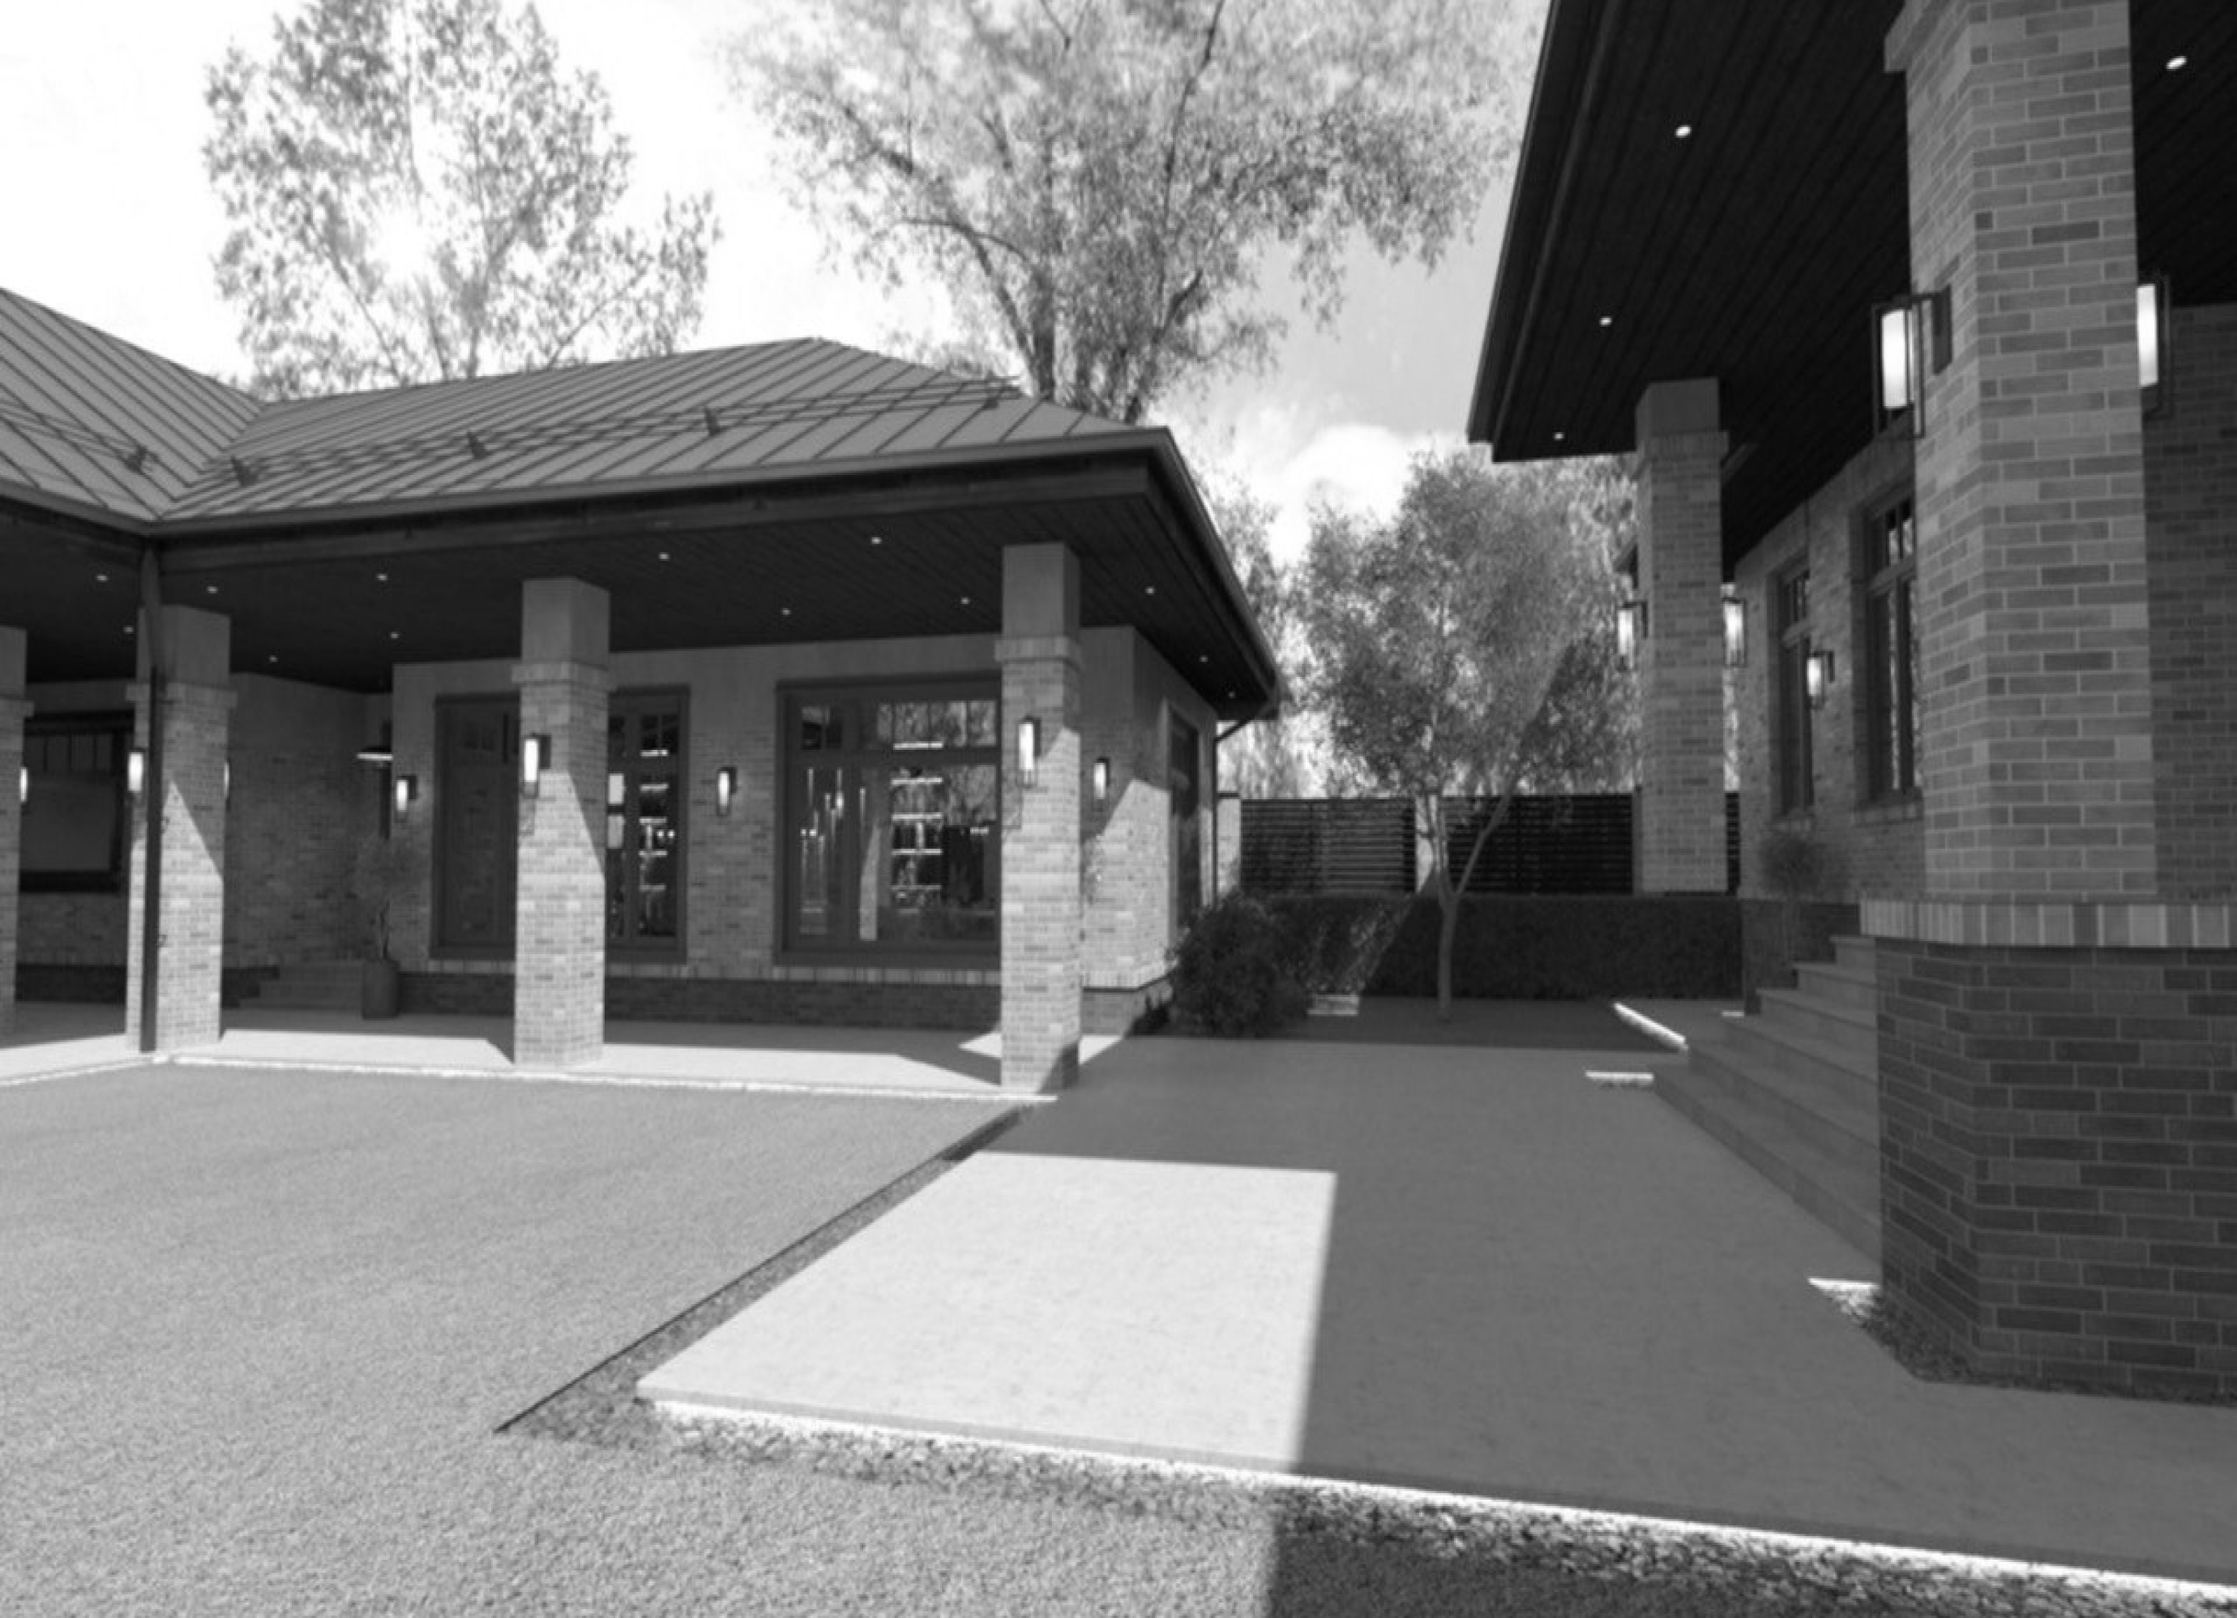
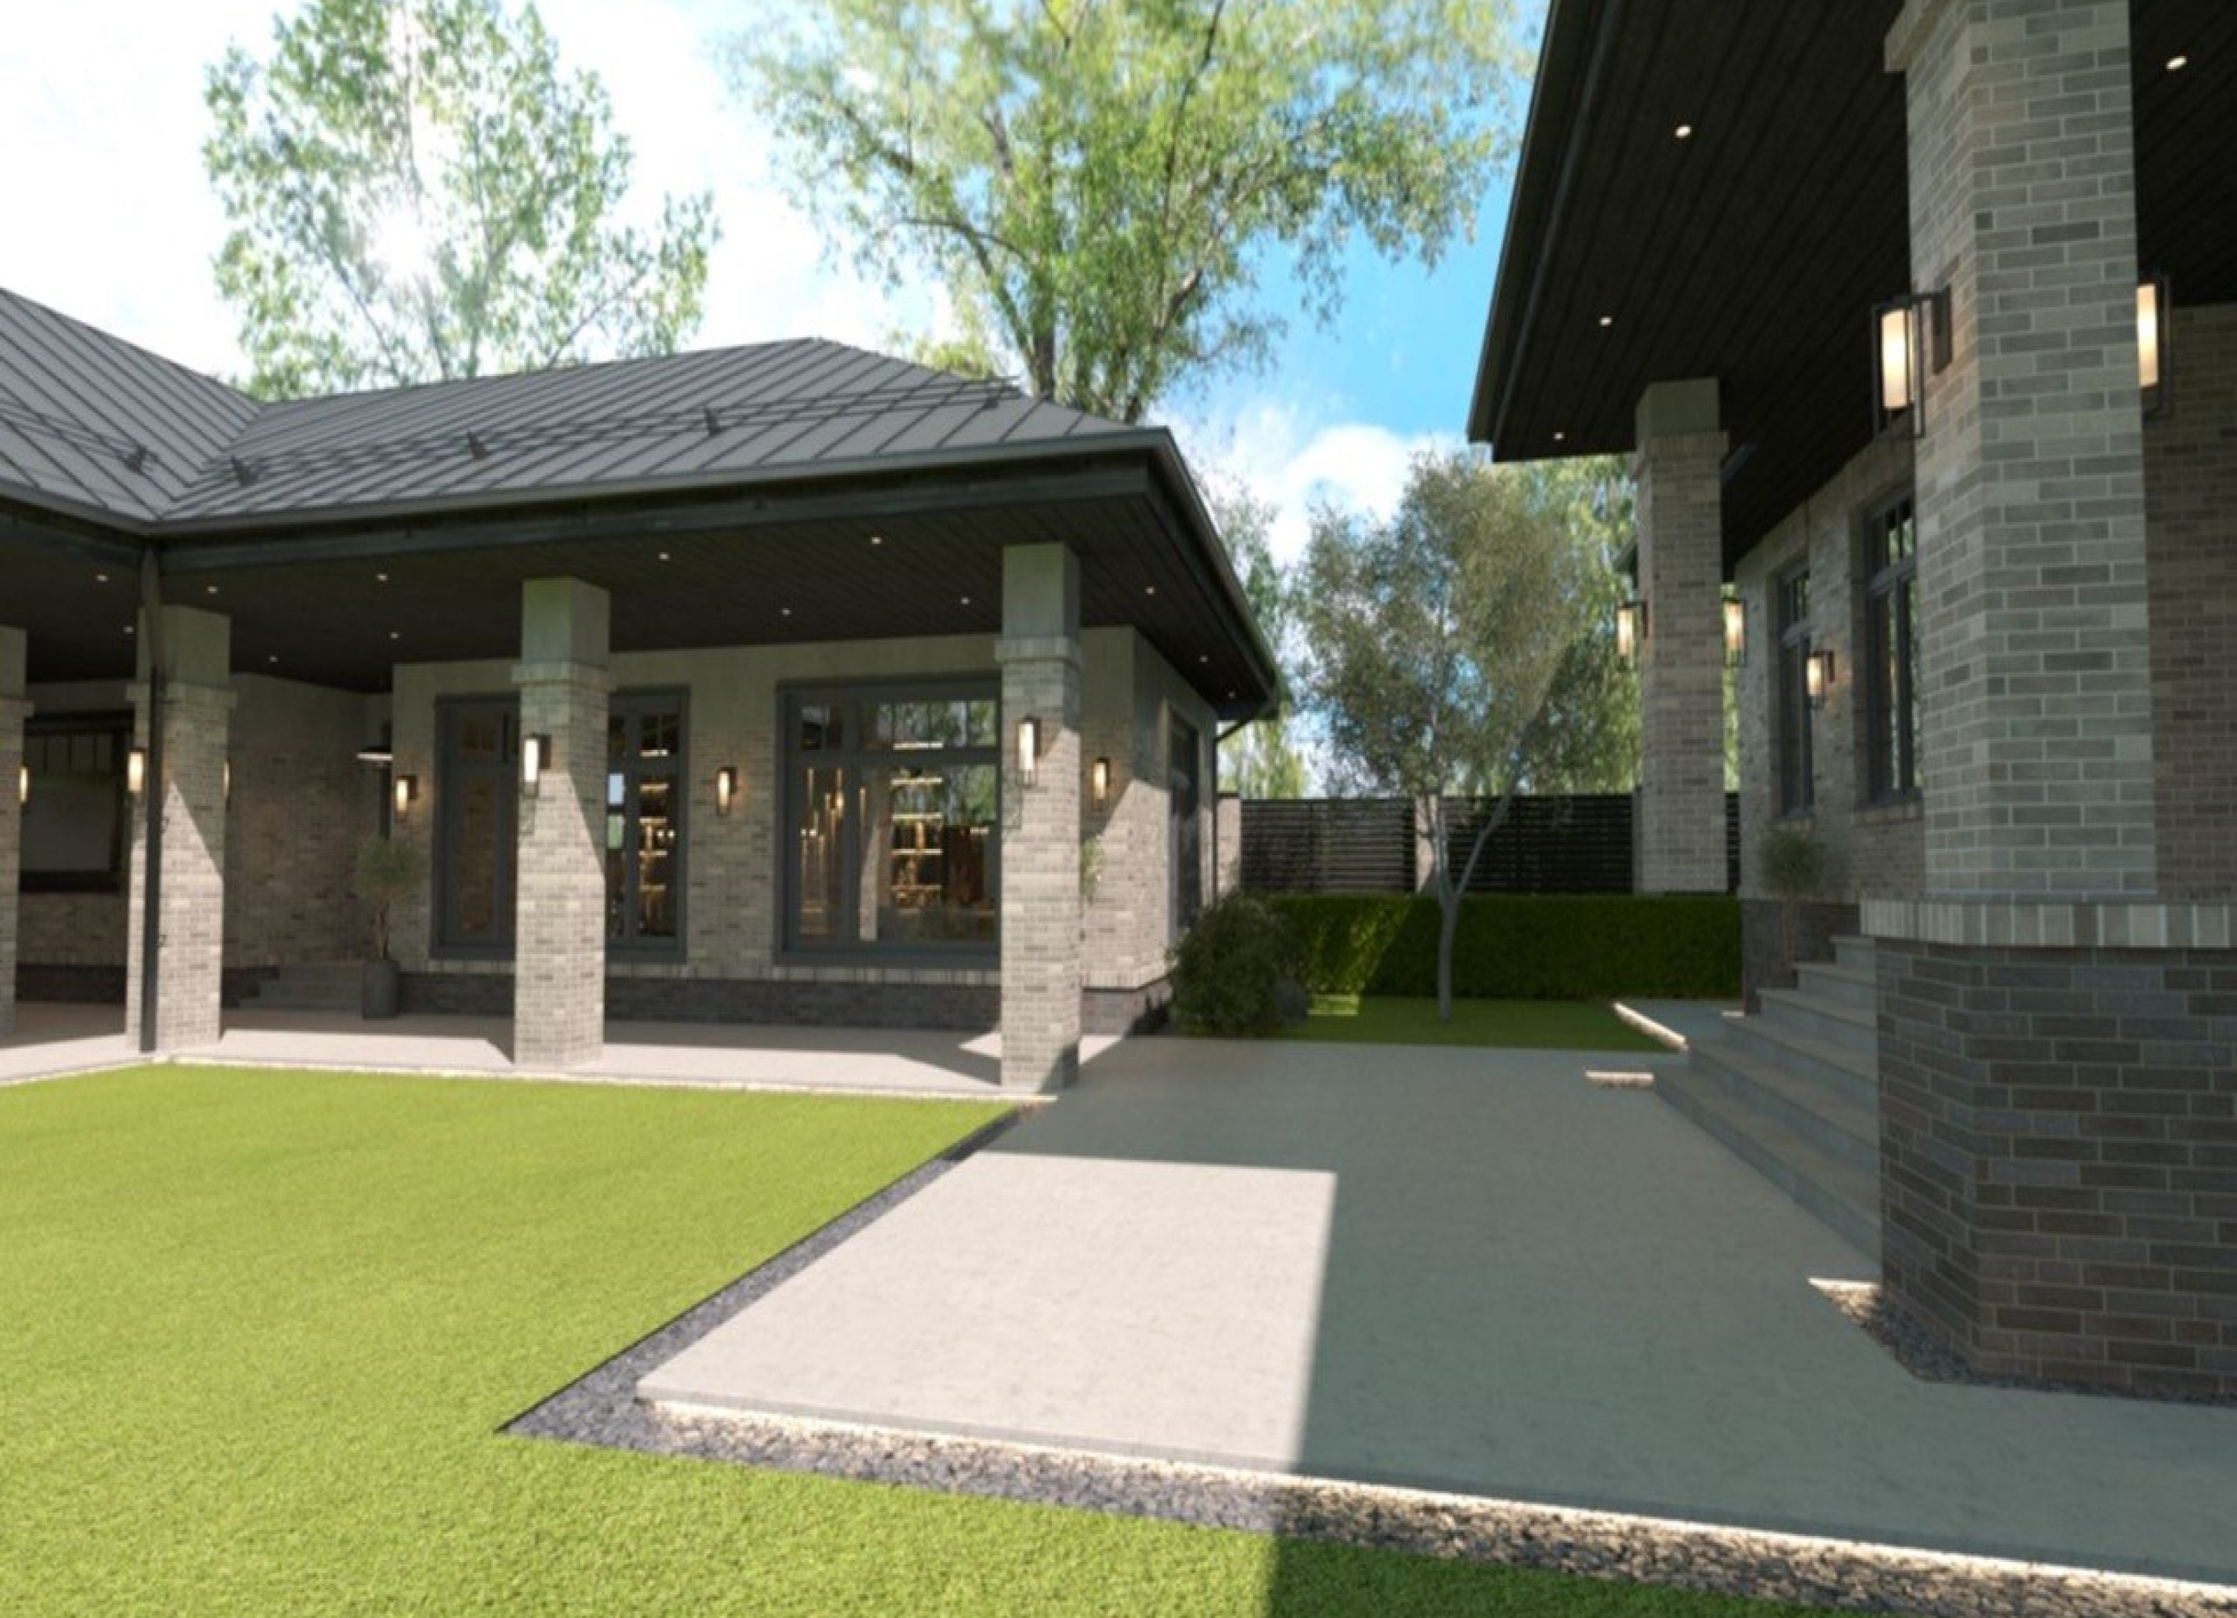
nina_2.0

diff --git a/ninasav/index.html b/ninasav/index.html
@@ -13,7 +13,7 @@
 
     <header class="header">
         <div class="logo">
-            Nina Sav
+            Nina Savlaeva
         </div>
 
         <nav class="main-nav">
@@ -24,21 +24,23 @@
 
         <div class="lang-switch">
             <a href="#">Ru</a>
-            <a href="#" class="active">En</a>
         </div>
     </header>
 
     <main class="hero">
         <div class="gallery-wrapper">
-            <img src="./images_nina/vld.webp" alt="Vladikavkaz Residence" class="gallery-image active">
+            <!-- Убрали active отсюда! -->
+            <img src="./images_nina/gallery-1-1.webp" alt="Slide 1" class="gallery-image">
+            <img src="./images_nina/gallery-2.webp" alt="Slide 2" class="gallery-image">
+            <img src="./images_nina/gallery-3.webp" alt="Slide 3" class="gallery-image">
+            <img src="./images_nina/gallery-4.webp" alt="Slide 4" class="gallery-image">
         </div>
 
-        <div class="hero-item bottom-left">
-            Vladikavkaz <br> Residence — 1,000 m²
+        <div class="hero-item bottom-left" id="hero-text">
+            Vladikavkaz <br>Residence — 1,000 m²
         </div>
-
-
     </main>
+
     <div class="v-space M"></div>
     <section class="about-section">
         <p class="about-text">
@@ -60,41 +62,53 @@
         <div class="projects-stagger">
 
             <!-- 1 -->
-            <div class="project-card left">
+            <a href="#" class="project-card left">
                 <h3 class="project-title">Vladikavkaz <br class="mob-br"> Residence — 1,000 m²</h3>
-                <img src="./images_nina/gallery-1.webp" alt="Vladikavkaz Residence" class="project-img">
-            </div>
+                <div class="img-mask">
+                    <img src="./images_nina/gallery-1.webp" alt="Vladikavkaz Residence" class="project-img">
+                </div>
+            </a>
 
             <!-- 2 -->
-            <div class="project-card right">
+            <a href="#" class="project-card right">
                 <h3 class="project-title">Digora <br class="mob-br"> Residence — 800 m²</h3>
-                <img src="./images_nina/gallery-2.webp" alt="Digora" class="project-img">
-            </div>
+                <div class="img-mask">
+                    <img src="./images_nina/gallery-2.webp" alt="Digora" class="project-img">
+                </div>
+            </a>
 
             <!-- 3 -->
-            <div class="project-card left">
+            <a href="#" class="project-card left">
                 <h3 class="project-title">«Brugge» <br class="mob-br"> Restaurant</h3>
-                <img src="./images_nina/gallery-3.webp" alt="Brugge Restaurant" class="project-img">
-            </div>
+                <div class="img-mask">
+                    <img src="./images_nina/gallery-3.webp" alt="Brugge Restaurant" class="project-img">
+                </div>
+            </a>
 
             <!-- 4 -->
-            <div class="project-card right">
+            <a href="#" class="project-card right">
                 <h3 class="project-title">Mountain Saniba <br class="mob-br"> house — 250 m²</h3>
-                <img src="./images_nina/gallery-4.webp" alt="Saniba" class="project-img">
-            </div>
+                <div class="img-mask">
+                    <img src="./images_nina/gallery-4.webp" alt="Saniba" class="project-img">
+                </div>
+            </a>
 
             <!-- 5 -->
-            <div class="project-card left">
+            <a href="#" class="project-card left">
                 <h3 class="project-title">Digora <br class="mob-br"> Residence — 800 m²</h3>
-                <img src="./images_nina/gallery-5.webp" alt="Digora" class="project-img">
-            </div>
+                <div class="img-mask">
+                    <img src="./images_nina/gallery-5.webp" alt="Digora" class="project-img">
+                </div>
+            </a>
 
             <!-- 6 -->
-            <div class="project-card right">
+            <a href="#" class="project-card right">
                 <h3 class="project-title">Mountain Saniba <br class="mob-br"> house — 250 m²</h3>
                 <!-- Тут можно будет вставить тег <video> вместо картинки -->
-                <img src="./images_nina/gallery-6.webp" alt="Saniba Video" class="project-img">
-            </div>
+                <div class="img-mask">
+                    <img src="./images_nina/gallery-6.webp" alt="Saniba Video" class="project-img">
+                </div>
+            </a>
 
         </div>
     </section>
@@ -150,6 +164,41 @@
         window.addEventListener('resize', applyStagger);
     </script>
 
+    <script>
+        // 1. ФИКС СКРОЛЛА: Заставляем браузер всегда начинать с самого верха при F5
+        if (history.scrollRestoration) {
+            history.scrollRestoration = 'manual';
+        }
+        window.scrollTo(0, 0);
+
+        // СЛАЙДЕР ДЛЯ ГЛАВНОГО ЭКРАНА
+        const heroImages = document.querySelectorAll('.gallery-image');
+        const heroText = document.getElementById('hero-text');
+
+        const slideTexts = [
+            "Vladikavkaz <br>Residence — 1,000 m²",
+            "Digora <br>Residence — 800 m²",
+            "«Brugge» <br>Restaurant",
+            "Mountain Saniba <br>house — 250 m²"
+        ];
+
+        let currentSlide = 0;
+
+        // 2. ФИКС АНИМАЦИИ: Добавляем класс active через 50 миллисекунд после загрузки, 
+        // чтобы браузер успел увидеть "изменение" и запустил CSS-анимацию
+        setTimeout(() => {
+            heroImages[0].classList.add('active');
+        }, 50);
+
+        function nextSlide() {
+            heroImages[currentSlide].classList.remove('active');
+            currentSlide = (currentSlide + 1) % heroImages.length;
+            heroImages[currentSlide].classList.add('active');
+            heroText.innerHTML = slideTexts[currentSlide];
+        }
+
+        setInterval(nextSlide, 7000);
+    </script>
 </body>
 
 </html>

diff --git a/ninasav/style_nina.css b/ninasav/style_nina.css
@@ -123,11 +123,15 @@ a:hover {
 
 /* --- ГЛАВНЫЙ БЛОК И ГАЛЕРЕЯ --- */
 
+/* --- ГЛАВНЫЙ БЛОК И ГАЛЕРЕЯ --- */
 .hero {
     position: relative;
     width: 100vw;
+    /* Убрали 100vw, чтобы не было скролла по горизонтали */
     height: 100vh;
     overflow: hidden;
+    background-color: rgb(var(--background-color-RGB));
+    /* При моргании просвечивает белый фон */
 }
 
 .gallery-wrapper {
@@ -140,11 +144,33 @@ a:hover {
 }
 
 .gallery-image {
+    position: absolute;
+    top: 0;
+    left: 0;
     width: 100%;
     height: 100%;
     object-fit: cover;
     object-position: center;
     display: block;
+    pointer-events: none;
+
+    /* НАЧАЛЬНОЕ СОСТОЯНИЕ (скрыта и увеличена на 2%) */
+    opacity: 0;
+    transform: scale(1.09);
+
+    /* ТРЮК: Когда слайд гаснет, прозрачность исчезает за 0.4 сек, 
+       а зум "замораживается" на эти же 0.4 сек, чтобы не было резкого скачка */
+    transition: opacity 0.4s ease, transform 0s 0.4s;
+}
+
+.gallery-image.active {
+    /* АКТИВНОЕ СОСТОЯНИЕ */
+    opacity: 1;
+    transform: scale(1);
+    /* Медленно возвращается к 100% (scale 1) */
+
+    /* Быстро загорается (0.4с) и плавно отъезжает назад все 7 секунд */
+    transition: opacity 0.4s ease, transform 7s linear;
 }
 
 /* --- НИЖНИЕ ЭЛЕМЕНТЫ (ИНФО И СЧЕТЧИК) --- */
@@ -284,7 +310,18 @@ a:hover {
     display: flex;
     flex-direction: column;
     gap: 1rem;
-    transition: margin-top 0.3s ease;
+
+    /* Состояние покоя (когда убрали курсор): 
+        margin-top от скрипта работает за 0.3s, 
+       а цвет текста плавно остывает за 0.6s */
+    transition: margin-top 0.3s ease, color 0.6s cubic-bezier(0.4, 0, 0.2, 1);
+}
+
+.project-card:hover {
+    /* Состояние наведения: 
+        цвет вспыхивает моментально (0s), 
+       а margin-top не трогаем, чтобы не сломать JS */
+    transition: margin-top 0.3s ease, color 0s;
 }
 
 /* ЛЕВЫЕ КАРТОЧКИ */
@@ -310,11 +347,50 @@ a:hover {
     font-weight: 400;
 }
 
+/* --- МАСКА ДЛЯ КАРТИНКИ (держит рамки) --- */
+.img-mask {
+    width: 100%;
+    /* Стартовое скругление теперь тут */
+    border-radius: 12px;
+
+    /* Самое главное: обрезает картинку по границам при зуме! */
+    overflow: hidden;
+
+    /* Анимируем только возвращение скругления (0.6s) */
+    transition: border-radius 1s cubic-bezier(0.4, 0, 0.2, 1);
+
+    /* Защита от виджета Яндекс Браузера */
+    pointer-events: none;
+}
+
+/* --- САМА ФОТОГРАФИЯ (зумируется внутри маски) --- */
 .project-img {
     width: 100%;
     height: auto;
     display: block;
-    border-radius: 2.5rem;
+
+    filter: grayscale(100%);
+    transform: scale(1);
+
+    /* Анимируем цвет и зум (0.6s) */
+    transition: filter 0.6s cubic-bezier(0.4, 0, 0.2, 1),
+        transform 0.6s cubic-bezier(0.4, 0, 0.2, 1);
+}
+
+/* 🎯 ХОВЕР НА КАРТОЧКУ: Анимируем маску (скругление) */
+.project-card:hover .img-mask {
+    border-radius: 4rem;
+    transition: border-radius 0.4s;
+}
+
+/* 🎯 ХОВЕР НА КАРТОЧКУ: Анимируем картинку (цвет и зум) */
+.project-card:hover .project-img {
+    filter: grayscale(0%);
+
+    /* Поскольку рамки больше не едут, можно смело сделать скейл побольше, например 1.05 */
+    transform: scale(1.005);
+
+    transition: filter 0.2s, transform 0.2s;
 }
 
 /* ============================================= */
@@ -509,5 +585,38 @@ a:hover {
 @media (max-width: 768px) {
     .mob-br {
         display: inline;
+    }
+}
+
+/* ============================================= */
+/* КАСТОМНЫЙ СКРОЛЛБАР (ТОЛЬКО ДЛЯ ПК)           */
+/* ============================================= */
+
+@media (min-width: 769px) {
+
+    /* Стандарт для Firefox */
+    html {
+        scrollbar-width: thin;
+        scrollbar-color: #d6d6d6 transparent;
+    }
+
+    /* Настройки для Chrome, Edge, Safari */
+    ::-webkit-scrollbar {
+        width: 14px;
+    }
+
+    ::-webkit-scrollbar-track {
+        background: transparent;
+    }
+
+    ::-webkit-scrollbar-thumb {
+        background-color: #d6d6d6;
+        border-radius: 20px;
+        border: 4px solid rgb(var(--background-color-RGB));
+        background-clip: padding-box;
+    }
+
+    ::-webkit-scrollbar-thumb:hover {
+        background-color: rgb(var(--hover-color-RGB));
     }
 }
